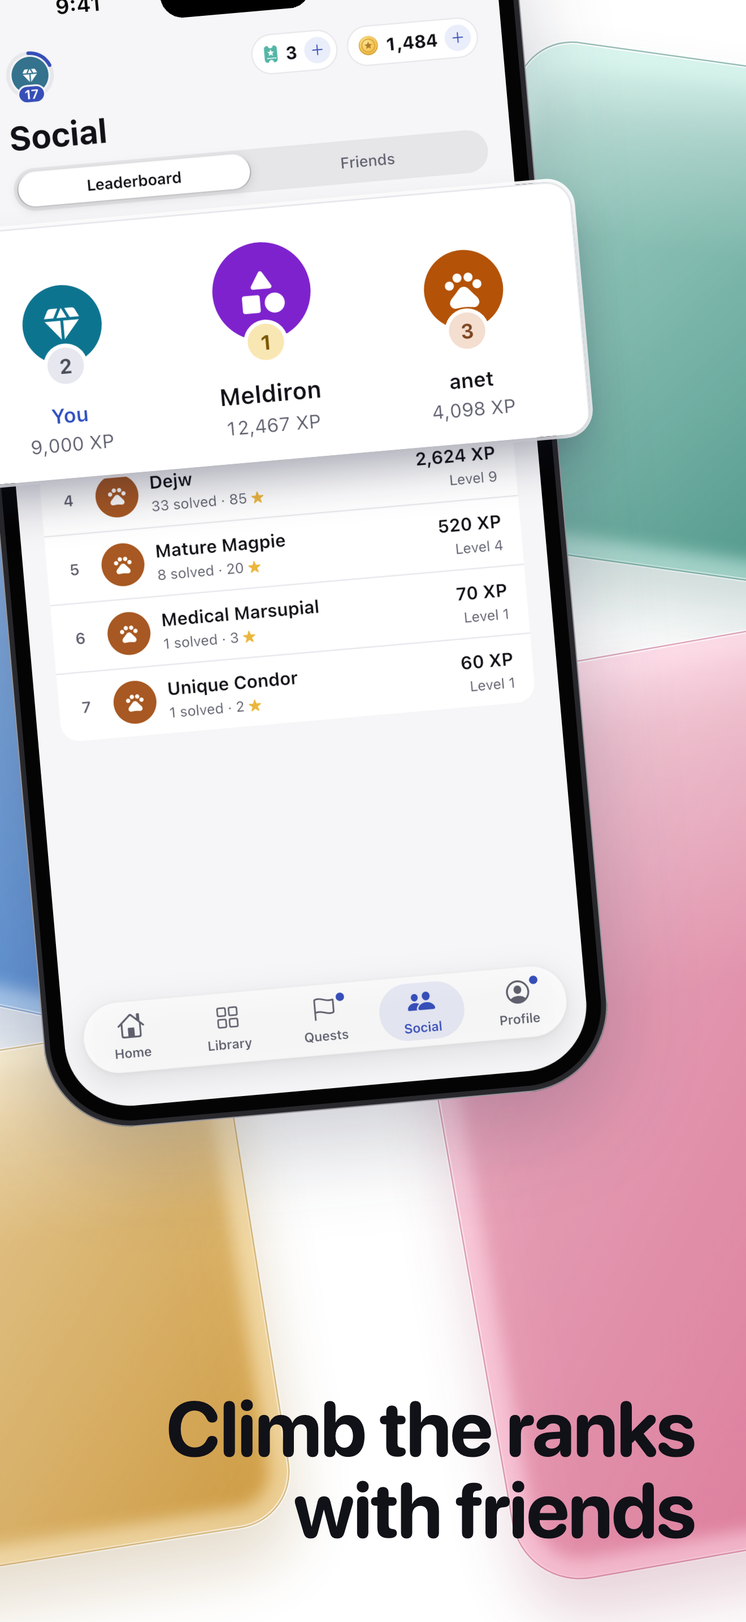
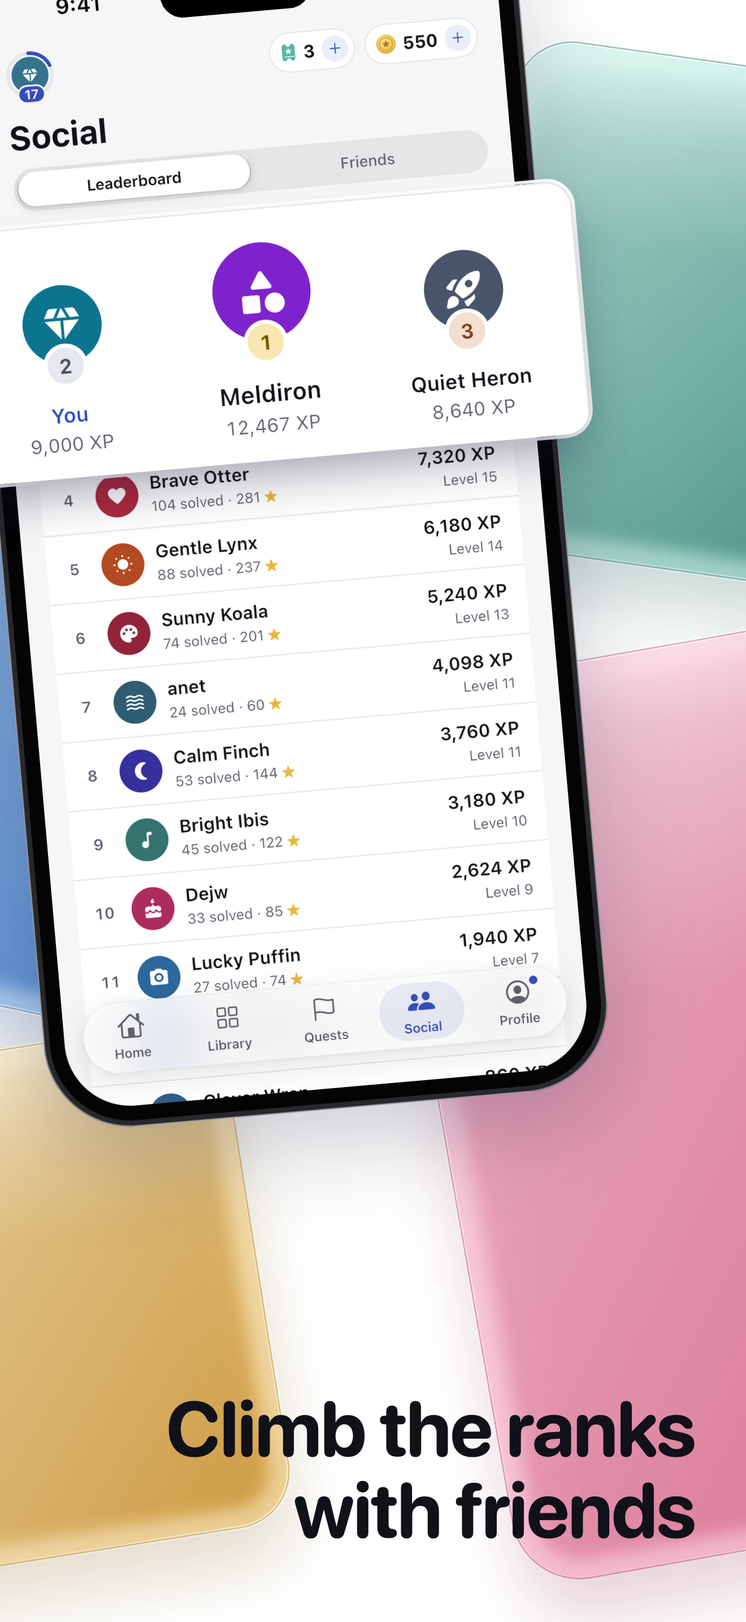
Store screenshots: endless cover row, giant squares, a full league, bigger mode badges
- Slide 2: one straight row of full-resolution pack covers running off both edges; the Library is
  scrolled one row so it opens on packs, not the My Puzzles tile.
- Slide 3: the streak card straight and lower. Slide 7: headline bottom right, like slide 9.
- Slide 4: bigger mode badges on the edge of each board or card that faces the headline.
- Slide 6: the giant board in Squares (345 squares, Giant size), the headline now "Giant boards of
  hundreds of cards" so it stays true.
- Slide 9: the league filled with made-up players and varied avatars (a test-only leaderboard
  override, count included); the player second on the podium.
- Contrast check: every headline 4.8:1 or more.

Not uploaded to App Store Connect yet.

diff --git a/integration_test/store_screenshots_test.dart b/integration_test/store_screenshots_test.dart
@@ -27,6 +27,7 @@ import 'package:carden/game/board.dart';
 import 'package:carden/models/models.dart';
 import 'package:carden/router.dart';
 import 'package:carden/state/auth.dart';
+import 'package:carden/state/paged.dart';
 import 'package:carden/state/catalog.dart';
 import 'package:carden/state/profile.dart';
 import 'package:carden/state/settings.dart';
@@ -82,7 +83,7 @@ const theme = String.fromEnvironment('CJW_STORE_THEME', defaultValue: 'dark');
 const skipUpload = bool.fromEnvironment('CJW_STORE_SKIP_UPLOAD');
 const suffix = theme == 'light' ? '_light' : '';
 
-/// `--dart-define=CJW_STORE_ONLY=25_hero,27_giant` re-takes only those glass-set captures (15_library, 25-31)
+/// `--dart-define=CJW_STORE_ONLY=25_hero,27_giant` re-takes only those glass-set captures (15_library, 22_social_league, 25-31)
 /// after onboarding and leaves every other file as it is: a quick rerun for one slide.
 const only = String.fromEnvironment('CJW_STORE_ONLY');
 bool want(String name) => only.isEmpty || only.split(',').contains(name);
@@ -93,6 +94,33 @@ Future<void> settle(WidgetTester tester, [int ms = 1500]) async {
   final end = DateTime.now().add(Duration(milliseconds: ms));
   while (DateTime.now().isBefore(end)) {
     await tester.pump(const Duration(milliseconds: 100));
+  }
+}
+
+/// The league as the screenshots show it: the real players plus these made-up ones (name, XP,
+/// avatar), so the board is full and varied; players on the default avatar get another one.
+const leagueExtras = [
+  ('Quiet Heron', 8640, 'rocket'), ('Brave Otter', 7320, 'heart'), ('Gentle Lynx', 6180, 'sun'),
+  ('Sunny Koala', 5240, 'palette'), ('Calm Finch', 3760, 'moon'), ('Bright Ibis', 3180, 'music'),
+  ('Lucky Puffin', 1940, 'camera'), ('Swift Marten', 1380, 'anchor'), ('Clever Wren', 860, 'snow'), ('Happy Gecko', 410, 'pizza'),
+];
+const leagueAvatars = ['wave', 'cake', 'globe', 'bike', 'coffee', 'umbrella', 'key', 'mountain'];
+
+class _StoreLeaderboard extends LeaderboardNotifier {
+  @override
+  Future<PageResult<Profile>> fetchPage(String? after) async {
+    final page = await super.fetchPage(after);
+    if (after != null || page.items.isEmpty) return page;
+    final me = ref.read(currentUserIdProvider);
+    var n = 0;
+    final real = [
+      for (final p in page.items) p.userId == me || p.avatar != 'fox' ? p : p.copyWith(avatar: leagueAvatars[n++ % leagueAvatars.length]),
+    ];
+    final made = [
+      for (final (i, (name, xp, avatar)) in leagueExtras.indexed)
+        page.items.first.copyWith(id: 'store-$i', userId: 'store-$i', displayName: name, xp: xp, avatar: avatar, puzzlesCompleted: xp ~/ 70, totalStars: xp ~/ 26, isTest: false),
+    ];
+    return (items: [...real, ...made]..sort((a, b) => b.xp.compareTo(a.xp)), lastId: null);
   }
 }
 
@@ -265,6 +293,16 @@ void main() {
   }
 
   /// (Board sizes past Relaxed open with levels: a quick CJW_STORE_ONLY run plays a level-1 guest.)
+  /// The Library scrolled one row down, so the grid starts with packs (the My Puzzles tile, the
+  /// first of the All grid, has no picture of its own).
+  Future<void> libraryPacksFirst(WidgetTester tester) async {
+    final tile = find.byKey(const ValueKey('library-my-puzzles'));
+    if (tile.evaluate().isEmpty) return;
+    // The glass bar ends at y 111; a drag stops about 17 short, so this leaves the row under the bar.
+    await tester.drag(find.byType(Scrollable).first, Offset(0, -(tester.getRect(tile).bottom - 84)));
+    await settle(tester, 2500);
+  }
+
   /// Sets the player's XP (and the level it gives), avatar and streak through the save sync, so the
   /// screenshots show the player growing from slide to slide.
   Future<void> setProgress(WidgetTester tester, {int? xp, String? avatar, int? streak}) async {
@@ -272,6 +310,9 @@ void main() {
     container.read(syncProvider.notifier).enqueue(SyncOp.put({
       'xp': ?xp,
       'level': ?(xp == null ? null : LevelRewards.levelForXp(xp)),
+      // Solved pictures in step with the XP (the league lists players who have solved one).
+      'puzzlesCompleted': ?(xp == null ? null : xp ~/ 70),
+      'totalStars': ?(xp == null ? null : xp ~/ 26),
       'avatar': ?avatar,
       'streak': ?streak,
       'longestStreak': ?streak,
@@ -378,6 +419,14 @@ void main() {
         // Shapes and options open as levels rise (lib/state/unlocks.dart); these suites play every one, so all are open and no intro sheet interrupts them.
         openFeaturesProvider.overrideWithValue(OpenFeatures.all),
         pendingUnlockIntroProvider.overrideWithValue(null),
+        // A full, varied league (leagueExtras) and its count.
+        leaderboardProvider.overrideWith(_StoreLeaderboard.new),
+        leaderboardRankProvider.overrideWith((ref) async {
+          final rows = (await ref.watch(leaderboardProvider.future)).items;
+          final me = ref.watch(currentUserIdProvider);
+          final i = rows.indexWhere((p) => p.userId == me);
+          return i < 0 ? null : (rank: i + 1, total: rows.length);
+        }),
         // The Library's first packs are the curated ones (libraryFirst); nothing else changes.
         packsProvider.overrideWith((ref) async {
           final rows = await ref.watch(packRowsProvider.future);
@@ -453,7 +502,7 @@ void main() {
         await profile.addTickets(pack.priceTickets, reason: 'qa:store-giant');
         await settle(tester, 800);
         await profile.unlockPack(pack);
-        await startGame(tester, giantPuzzle, 'Cards', 'Giant');
+        await startGame(tester, giantPuzzle, 'Squares', 'Giant');
         await midBuild(tester, 0.1, 3);
         await shot(tester, '27_giant');
         // Zoomed in on the edge of the solved part, so the overview map shows in the corner.
@@ -487,8 +536,15 @@ void main() {
     await go(tester, '/home', ms: 2000);
     if (only.isNotEmpty) {
       if (want('15_library')) {
+        await setProgress(tester, xp: 600, avatar: 'leaf');
         await go(tester, '/library', ms: 4500);
+        await libraryPacksFirst(tester);
         await shot(tester, '15_library');
+      }
+      if (want('22_social_league')) {
+        await setProgress(tester, xp: 9000, avatar: 'diamond');
+        await go(tester, '/social', ms: 4500);
+        await shot(tester, '22_social_league');
       }
       return;
     }
@@ -592,7 +648,10 @@ void main() {
     // Library, the daily calendar (top, then scrolled to the day grid), a pack.
     await setProgress(tester, xp: 600, avatar: 'leaf');
     await go(tester, '/library', ms: 3500);
+    await libraryPacksFirst(tester);
     await shot(tester, '15_library');
+    await tester.drag(find.byType(Scrollable).first, const Offset(0, 1500));
+    await settle(tester, 1200);
     // The Daily chip sits past the screen's edge among the other chips; pick it the way a link does
     // (the row then scrolls it into view).
     ProviderScope.containerOf(tester.element(find.byType(MaterialApp))).read(libraryFilterProvider.notifier).select(LibraryFilter.daily);

diff --git a/tools/store/glass/slides.html b/tools/store/glass/slides.html
@@ -26,13 +26,15 @@ h1 { position: absolute; left: 70px; right: 70px; margin: 0; text-align: center;
 /* A phone and the cards lifted out of it share one frame, so a tilted phone tilts its cards too. */
 .phonebox { position: absolute; transform-origin: 50% 40%; }
 .phone { position: absolute; left: 0; top: 0; filter: drop-shadow(0 60px 80px var(--shade)); }
-.out { position: absolute; overflow: hidden; box-shadow: 0 46px 90px -24px rgba(20,22,50,.42), 0 0 0 6px rgba(255,255,255,.95); }
-.dark .out { box-shadow: 0 46px 90px -24px rgba(0,0,0,.7), 0 0 0 5px rgba(255,255,255,.3); }
-.out img { display: block; width: 100%; }
-.tag { position: absolute; transform: translateX(-50%); padding: 12px 26px; border-radius: 999px; background: rgba(255,255,255,.92);
-  box-shadow: 0 10px 24px -8px rgba(20,22,50,.35); font: 600 40px/1 "Head"; color: #111118; white-space: nowrap; }
-.out b { position: absolute; left: 50%; bottom: 22px; transform: translateX(-50%); padding: 12px 26px; border-radius: 999px;
-  background: rgba(255,255,255,.9); font: 600 40px/1 "Head"; color: #111118; white-space: nowrap; }
+.out { position: absolute; }
+.out img { display: block; width: 100%; border-radius: inherit; box-shadow: 0 46px 90px -24px rgba(20,22,50,.42), 0 0 0 6px rgba(255,255,255,.95); }
+.dark .out img { box-shadow: 0 46px 90px -24px rgba(0,0,0,.7), 0 0 0 5px rgba(255,255,255,.3); }
+/* Mode badges: big white pills sitting on the edge of their board or card, half outside. */
+.badge { position: absolute; left: 50%; padding: 18px 40px; border-radius: 999px; background: #fff; white-space: nowrap;
+  box-shadow: 0 16px 34px -10px rgba(20,22,50,.45), 0 0 0 1px rgba(17,17,24,.06); font: 700 56px/1 "Head"; color: #111118; letter-spacing: -0.01em; }
+.badge.bottom { bottom: 0; transform: translate(-50%, 50%); }
+.badge.top { top: 0; transform: translate(-50%, -50%); }
+.badge.at { left: auto; transform: translate(-50%, -50%); }
 .pic { position: absolute; object-fit: cover; box-shadow: 0 36px 70px -20px rgba(20,22,50,.38), 0 0 0 6px rgba(255,255,255,.95); }
 </style></head><body><div id="root"></div><script>
 const S = __DATA__;
@@ -79,8 +81,8 @@ function render(size) {
   if (!noText) h += `<h1 style="top:${top}px;font-size:${size}px;text-align:${T.align};${side}">${sl.head.replace(/\n/g, "<br>")}</h1>`;
   // Phones: each in its own frame with the cards lifted out of it and its labels, so they tilt together.
   for (const p of sl.phones) {
-    const outs = (p.out || []).map(o => `<div class="out" style="left:${o.x}px;top:${o.y}px;width:${o.w}px;border-radius:${o.radius}px;transform:rotate(${o.rot}deg)"><img src="${file(o.img)}">${o.label ? `<b>${o.label}</b>` : ""}</div>`).join("");
-    const tags = (p.tags || []).map(t => `<b class="tag" style="left:${t.x}px;top:${t.y}px">${t.text}</b>`).join("");
+    const outs = (p.out || []).map(o => `<div class="out" style="left:${o.x}px;top:${o.y}px;width:${o.w}px;border-radius:${o.radius}px;transform:rotate(${o.rot}deg)"><img src="${file(o.img)}">${o.label ? `<b class="badge ${o.label_at || "bottom"}">${o.label}</b>` : ""}</div>`).join("");
+    const tags = (p.tags || []).map(t => `<b class="badge at" style="left:${t.x}px;top:${t.y}px">${t.text}</b>`).join("");
     h += `<div class="phonebox" style="left:${p.x}px;top:${p.y}px;width:${S.phone_w}px;height:${S.phone_h}px;transform:rotate(${p.rot}deg)"><img class="phone" src="${file(p.img)}" style="width:${S.phone_w}px">${tags}${outs}</div>`;
   }
   document.getElementById("root").innerHTML = `<div class="slide${sl.dark ? " dark" : ""}">${h}</div>`;

diff --git a/tools/store/compose_glass.py b/tools/store/compose_glass.py
@@ -75,12 +75,12 @@ def slides() -> list[dict]:
         # 1. The mechanic, mid-build: some cards locked, some loose, some joined.
         {"head": "Swap cards.\nReveal the picture.", "brand": True, "text": ("top", 330, "center"),
          "phones": [{"capture": "25_hero", "x": 160, "y": 738}]},
-        # 2. How much there is: a hand of pack covers fanned out like cards, the Library (its first
-        #    packs curated by the capture test, no AI) rising from the bottom edge.
+        # 2. How much there is: one straight row of pack covers running off both edges (endless), the
+        #    Library rising from the bottom edge, scrolled so its grid starts with packs.
         {"head": "Thousands\nof pictures", "text": ("top", 200, "center"),
-         "pics": [{"packs": ["pack-japanese-prints", "pack-nebulae", "pack-sunflowers", "pack-hot-air-balloons", "pack-lavender", "pack-kyoto", "pack-santorini"],
-                   "hand": {"w": 340, "h": 456, "top": 660, "spread": 15, "radius_px": 1500}, "radius": 30}],
-         "phones": [{"capture": "15_library", "x": 160, "y": 1330}]},
+         "pics": [{"packs": ["pack-venice", "pack-lavender", "pack-japanese-prints", "pack-nebulae", "pack-northern-lights", "pack-sunflowers", "pack-islands"],
+                   "row": {"w": 360, "h": 480, "gap": 28, "y": 640}, "radius": 30}],
+         "phones": [{"capture": "15_library", "x": 160, "y": 1300}]},
         # 3. Why you come back: the calendar pushed left, today's picture and the streak from Home
         #    lifted, solved days with their stars on the right.
         {"head": "A new picture\nevery day", "text": ("top", 200, "right"),
@@ -88,13 +88,14 @@ def slides() -> list[dict]:
                    "spots": [(1000, 1330, 350, 6), (990, 1760, 350, -5)], "radius": 26}],
          "phones": [{"capture": DAILY, "x": -60, "y": 600,
                      "out": [{"crop": (DAILY, (60, 530, 1260, 775)), "x": 150, "w": 1140, "radius": 44},
-                             {"crop": ("31_home_streak", STREAK_CARD), "x": 120, "y": 1560, "w": 1040, "rot": -3, "radius": 40}]}]},
-        # 4. The signature, split: cards above the headline, hexagons below, squares and triangles lifted.
+                             {"crop": ("31_home_streak", STREAK_CARD), "x": 120, "y": 1700, "w": 1040, "radius": 40}]}]},
+        # 4. The signature, split around the headline: cards above, hexagons below, squares and
+        #    triangles lifted; every badge sits on the edge of its board or card that faces the headline.
         {"head": "One picture,\nfour ways to cut it", "text": ("center", 1600, "center"),
-         "phones": [{"capture": "06_mode_cards", "x": 160, "y": -700, "rot": -3, "tags": [{"text": "Cards", "x": 500, "y": 1290}],
-                     "out": [{"crop": ("07_mode_squares", "board"), "x": 700, "y": 1420, "w": 330, "rot": 8, "label": "Squares"}]},
-                    {"capture": "09_mode_hexagons", "x": 160, "y": 1880, "rot": 3, "tags": [{"text": "Hexagons", "x": 560, "y": 520}],
-                     "out": [{"crop": ("08_mode_triangles", "board"), "x": -100, "y": 430, "w": 380, "rot": -8, "label": "Triangles"}]}]},
+         "phones": [{"capture": "06_mode_cards", "x": 160, "y": -700, "rot": -3, "tags": [{"text": "Cards", "edge": "bottom"}],
+                     "out": [{"crop": ("07_mode_squares", "board"), "x": 640, "y": 1330, "w": 400, "rot": 6, "label": "Squares"}]},
+                    {"capture": "09_mode_hexagons", "x": 160, "y": 1880, "rot": 3, "tags": [{"text": "Hexagons", "edge": "top"}],
+                     "out": [{"crop": ("08_mode_triangles", "board"), "x": -60, "y": 430, "w": 400, "rot": -6, "label": "Triangles", "label_at": "top"}]}]},
         # 5. Painting: Monet's chrysanthemums mostly grey, a few cards back in colour; the phone straight
         #    and centred (owner), a loose and a locked card lifted.
         {"head": "Bring the colour\nback, card by card", "text": ("center", 2390, "center"),
@@ -102,14 +103,15 @@ def slides() -> list[dict]:
                      "out": [{"crop": ("26_painting", cell("26_painting", 4, 5, 0, 0)), "x": -110, "y": 1560, "w": 300, "rot": -7, "radius": 26, "label": "Loose"},
                              {"crop": ("26_painting", cell("26_painting", 4, 5, 1, 2)), "x": 810, "y": 1520, "w": 300, "rot": 6, "radius": 26, "label": "Locked"}]}]},
         # 6. Giant boards: zoomed in with the overview map in the corner; the whole board in its
-        #    210 tiny cards (a small part solved) lifted beside it.
-        {"head": "Giant boards of\nup to 300 cards", "text": ("top", 200, "left"),
+        #    hundreds of tiny squares (a small part solved) lifted beside it.
+        {"head": "Giant boards of\nhundreds of cards", "text": ("top", 200, "left"),
          "phones": [{"capture": "30_giant_zoom", "x": 360, "y": 620, "rot": 6,
                      "out": [{"crop": ("27_giant", "board"), "x": -360, "y": 520, "w": 640, "rot": -5, "radius": 30}]}]},
-        # 7. The personal one: your own photos, one played as a puzzle.
-        {"head": "Puzzle your\nown photos", "text": ("bottom", 2740, "left"),
-         "phones": [{"capture": "20_my_puzzles", "x": 380, "y": 140,
-                     "out": [{"crop": ("21_my_puzzle_game", "board"), "x": -300, "y": 1000, "w": 600, "rot": -5, "radius": 40}]}]},
+        # 7. The personal one: your own photos, one played as a puzzle; the headline bottom right (like
+        #    slide 9), the phone pushed left and the corgi board lifted on the right.
+        {"head": "Puzzle your\nown photos", "text": ("bottom", 2740, "right"),
+         "phones": [{"capture": "20_my_puzzles", "x": -60, "y": 140,
+                     "out": [{"crop": ("21_my_puzzle_game", "board"), "x": 660, "y": 980, "w": 600, "rot": 5, "radius": 40}]}]},
         # 8. Quests, with the world-day event card lifted (cut exactly at the card's own edges and
         #    corners, 48 px in the capture, so no rounding cuts into it).
         {"head": "Quests and\nworld-day events", "text": ("top", 200, "center"),
@@ -177,6 +179,14 @@ def hand(items: list[str], w: int, h: int, top: int, spread: float, radius_px: i
         cx, cy = W / 2 + radius_px * math.sin(a), pivot_y - radius_px * math.cos(a)
         out.append({"src": src, "x": round(cx - w / 2), "y": round(cy - h / 2), "w": w, "h": h, "r": round(math.degrees(a), 1), "radius": radius})
     return out
+
+
+def row(items: list[str], w: int, h: int, gap: int, y: int, radius: int) -> list[dict]:
+    """One straight row of pictures running off both edges of the slide (it reads as endless):
+    centred on the middle picture, so both edges cut a picture in half."""
+    mid = (len(items) - 1) / 2
+    return [{"src": src, "x": round(W / 2 + (i - mid) * (w + gap) - w / 2), "y": y, "w": w, "h": h, "r": 0, "radius": radius}
+            for i, src in enumerate(items)]
 
 
 def cover(pack_id: str, width: int = 900) -> str:
@@ -267,8 +277,15 @@ def export_parts(parts: Path, slide_list: list[dict]) -> list[dict]:
                 x = o.get("x", off + (box[0] + box[2]) / 2 * k - o["w"] / 2)
                 y = o.get("y", off + (box[1] + box[3]) / 2 * k - h / 2)
                 outs.append({"img": cf, "x": round(x), "y": round(y), "w": o["w"], "rot": o.get("rot", 0),
-                             "radius": o.get("radius", 34), "label": o.get("label", "")})
-            d["phones"].append({"img": f, "x": ph["x"], "y": ph["y"], "rot": ph.get("rot", 0), "out": outs, "tags": ph.get("tags", [])})
+                             "radius": o.get("radius", 34), "label": o.get("label", ""), "label_at": o.get("label_at", "bottom")})
+            tags = []
+            for t in ph.get("tags", []):
+                if "edge" in t:  # centred on the board's top or bottom edge
+                    bl, bt, br, bb = board(n)
+                    tags.append({"text": t["text"], "x": round(off + (bl + br) / 2 * k), "y": round(off + (bt if t["edge"] == "top" else bb) * k)})
+                else:
+                    tags.append(t)
+            d["phones"].append({"img": f, "x": ph["x"], "y": ph["y"], "rot": ph.get("rot", 0), "out": outs, "tags": tags})
         d["pics"] = []
         for j, g in enumerate(s.get("pics", [])):
             if "packs" in g:
@@ -284,7 +301,9 @@ def export_parts(parts: Path, slide_list: list[dict]) -> list[dict]:
                     cs.load_raw(capture(name, dark)).crop(box).save(parts / f)
                     srcs.append(str(parts / f))
             radius = g.get("radius", 30)
-            if "hand" in g:
+            if "row" in g:
+                d["pics"] += row(srcs, radius=radius, **g["row"])
+            elif "hand" in g:
                 d["pics"] += hand(srcs, radius=radius, **g["hand"])
             elif "masonry" in g:
                 d["pics"] += masonry(srcs, radius=radius, **g["masonry"])

diff --git a/.claude/skills/store-screenshots/SKILL.md b/.claude/skills/store-screenshots/SKILL.md
@@ -31,14 +31,14 @@ here), no AI pictures anywhere.
 | # | Headline | Headline position | Phones |
 | --- | --- | --- | --- |
 | 1 | Swap cards. / Reveal the picture. | top, centre, icon + name | `25_hero` (Tulip Fields 8) flat, mid-build |
-| 2 | Thousands / of pictures | top, centre | a hand of seven pack covers (full resolution) fanned like cards; `15_library` (curated first packs) rising from the bottom edge |
-| 3 | A new picture / every day | top, right | `18_daily_month_grid` flat, pushed left, today's card and Home's 23-day streak card (`31_home_streak`) lifted; two solved days on the right |
-| 4 | One picture, / four ways to cut it | middle | split: `06_mode_cards` from the top, `09_mode_hexagons` from the bottom, squares and triangles lifted, labels |
+| 2 | Thousands / of pictures | top, centre | one straight row of full-resolution pack covers running off both edges (endless); `15_library` (curated packs, scrolled one row so no My Puzzles tile shows) rising from the bottom edge |
+| 3 | A new picture / every day | top, right | `18_daily_month_grid` flat, pushed left, today's card and Home's 23-day streak card (`31_home_streak`, straight, low) lifted; two solved days on the right |
+| 4 | One picture, / four ways to cut it | middle | split: `06_mode_cards` from the top, `09_mode_hexagons` from the bottom, squares and triangles lifted; big mode badges on the edge of each board or card that faces the headline |
 | 5 | Bring the colour / back, card by card | lower middle | `26_painting` straight and centred from the top (owner: no tilt here), mostly grey; a loose and a locked card lifted |
-| 6 | Giant boards of / up to 300 cards | top, left | `30_giant_zoom` (zoomed in, the overview map in the corner) tilted, pushed right; the whole board of `27_giant` lifted |
-| 7 | Puzzle your / own photos | bottom, left | `20_my_puzzles` (five photos, no gap) pushed right, the corgi board lifted |
+| 6 | Giant boards of / hundreds of cards | top, left | Squares, Giant size (345 squares): `30_giant_zoom` (zoomed in, the overview map in the corner) tilted, pushed right; the whole board of `27_giant` lifted |
+| 7 | Puzzle your / own photos | bottom, right | `20_my_puzzles` (five photos, no gap) pushed left, the corgi board lifted on the right |
 | 8 | Quests and / world-day events | top, centre | `13_quests` tilted, the World Food Day card lifted, cut exactly at its own edges and corners |
-| 9 | Climb the ranks / with friends | bottom, right | `22_social_league` tilted from the top left, the podium lifted (the player second) |
+| 9 | Climb the ranks / with friends | bottom, right | `22_social_league` tilted from the top left, the podium lifted (the player second); the league is filled with made-up players and varied avatars (`leagueExtras`, a `leaderboardProvider` override) |
 | 10 | Just as calm / in the dark | top, centre | `29_dark_board` (dark theme) flat, mid-build |
 
 The player grows from slide to slide: the capture test sets XP, level and avatar before each

diff --git a/store/README.md b/store/README.md
@@ -30,14 +30,14 @@ daily hook.
 | Slide | Headline | Headline and phones | Shows (light captures unless noted) |
 | --- | --- | --- | --- |
 | `01.png` | Swap cards. Reveal the picture. | top + icon, flat phone | `raw/25_hero`: Tulip Fields 8 mid-build |
-| `02.png` | Thousands of pictures | top, a hand of pack covers, phone from the bottom | seven pack covers at full resolution; `raw/15_library` (curated first packs) |
+| `02.png` | Thousands of pictures | top, an endless row of covers, phone from the bottom | pack covers at full resolution in one row off both edges; `raw/15_library` (curated packs, scrolled past the My Puzzles tile) |
 | `03.png` | A new picture every day | top right, phone pushed left | `raw/18_daily_month_grid`, today's card and the 23-day streak card of `raw/31_home_streak` lifted; two solved days on the right |
 | `04.png` | One picture, four ways to cut it | middle, two phones | `raw/06_mode_cards` from the top, `raw/09_mode_hexagons` from the bottom, squares and triangles lifted, all four labelled |
 | `05.png` | Bring the colour back, card by card | lower middle, phone straight from the top | `raw/26_painting`: Monet's chrysanthemums, 4 of 20 in colour; a loose and a locked card lifted |
-| `06.png` | Giant boards of up to 300 cards | top left, tilted phone pushed right | `raw/30_giant_zoom` (the overview map in the corner); the whole board of `raw/27_giant` lifted |
-| `07.png` | Puzzle your own photos | bottom left, phone pushed right | `raw/20_my_puzzles` (five photos), the corgi board of `raw/21_my_puzzle_game` lifted |
+| `06.png` | Giant boards of hundreds of cards | top left, tilted phone pushed right | `raw/30_giant_zoom` (Squares, Giant: 345 squares; the overview map in the corner); the whole board of `raw/27_giant` lifted |
+| `07.png` | Puzzle your own photos | bottom right, phone pushed left | `raw/20_my_puzzles` (five photos), the corgi board of `raw/21_my_puzzle_game` lifted |
 | `08.png` | Quests and world-day events | top, tilted phone | `raw/13_quests` (level 9), the World Food Day card of `raw/14_quests_live` lifted |
-| `09.png` | Climb the ranks with friends | bottom right, tilted phone | `raw/22_social_league` (level 17, second on the podium), the podium lifted |
+| `09.png` | Climb the ranks with friends | bottom right, tilted phone | `raw/22_social_league` (level 17, second on the podium; 17 players, made-up ones added by the test), the podium lifted |
 | `10.png` | Just as calm in the dark | top, flat phone, dark | `raw/29_dark_board`: the Monarch mid-build in the dark theme |
 
 Raw captures (dark theme; a `--dart-define=CJW_STORE_THEME=light` run writes

diff --git a/docs/store-screenshots.md b/docs/store-screenshots.md
@@ -31,7 +31,7 @@ in `tools/store/glass/slides.html`, then rerun the script.
   world-day events), friends and the leaderboard (9) and the dark finale (10).
   Read in order the headlines are one text: "Swap cards. Reveal the picture.
   Thousands of pictures. A new picture every day. One picture, four ways to cut
-  it. Bring the colour back, card by card. Giant boards of up to 300 cards. Puzzle
+  it. Bring the colour back, card by card. Giant boards of hundreds of cards. Puzzle
   your own photos. Quests and world-day events. Climb the ranks with friends. Just
   as calm in the dark." Dropped on the owner's word: "Fewer moves, more stars" (a
   scoring rule) and VIP ("I don't like talking about VIP"). No AI pictures.
